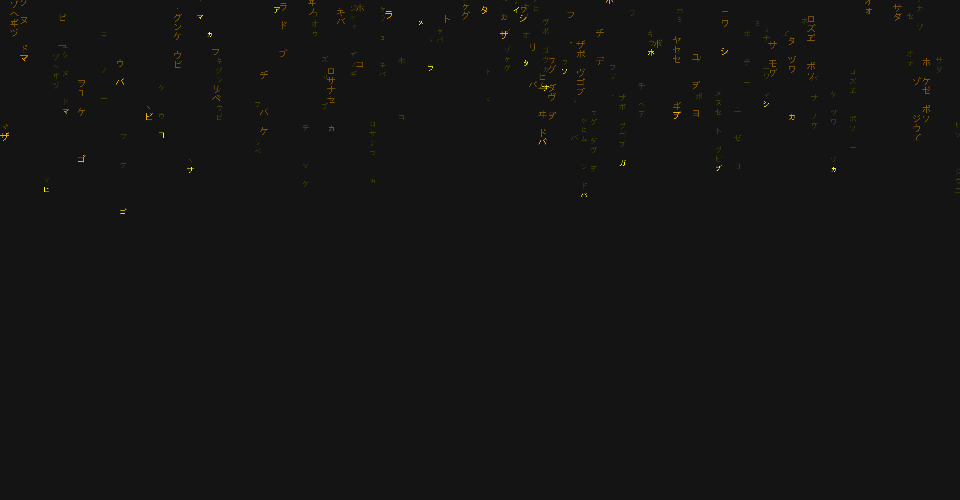
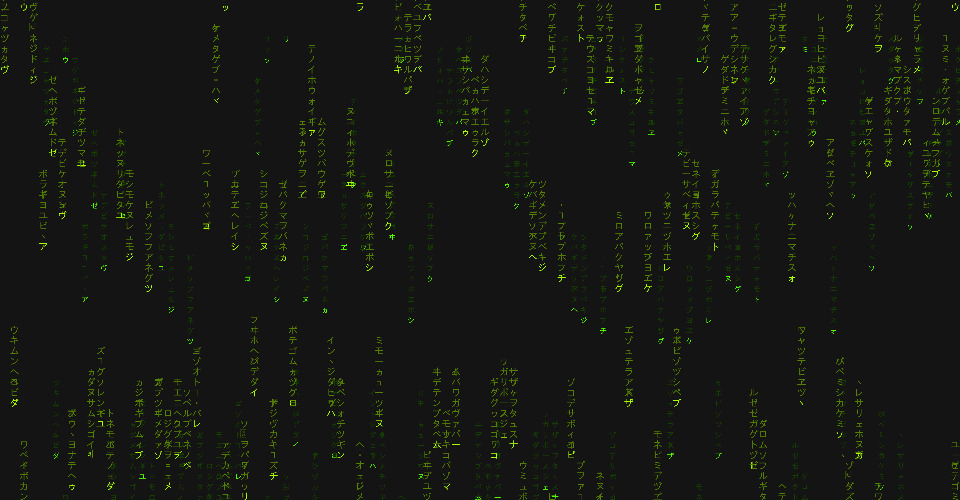
Final Commit

diff --git a/draw_one_frame.js b/draw_one_frame.js
@@ -1,55 +1,63 @@
 let charSize = 0 //20; // set char size
 let streams = []; // create array for the streams
-let firstRun  = true;
-let hue = 0;
-let hueChange = true;
+let firstRun  = true; // checks to see if first run
+let hue = 0; // hue value for text colour
+let hueChange = true; // set hueChange to true
 
-
+//-------DRAW_ONE_FRAME-------//
 function draw_one_frame() {
-if(firstRun){
-  charSize = width / 100
-  background (0) // set background colour
-  let x = 0;
-  for (let i = 0; i <= width / charSize; i++) {
-    let stream = new Stream();
-    stream.generateChars(x, random(-1000, 0)); // generate the symbols at a random y value
-    streams.push(stream);
-    x += charSize; 
+  if(firstRun){
+    charSize = width / 100 // set text size to scale with screen size
+    textSize(charSize); // apply text size
+
+    let x = 0;
+
+    // loop for generating streams == to the width of the screen
+    for (let i = 0; i <= width / charSize; i++) {
+      let stream = new Stream();
+      stream.generateChars(x, random(-1000, 0)); // generate the symbols at a random y value
+      streams.push(stream);
+      x += charSize; 
+    }
+
+    firstRun = false; // set firstRun to false, so above only runs the first time
   }
-  textSize(charSize);
-firstRun = false;
-}
-  background(20);
+
+  background(20); // set background colour
+
+  // render each stream
   streams.forEach(function(stream) {
-    stream.render();
-    stream.render2();
+    stream.render(); // main stream
+    stream.render2(); // background stream
   });
 
+  // hue text colour logic
   if (hue == 0){
-    hueChange = true
+    hueChange = true // when hue == 0, set to true
   } else if (hue == 100) {
-    hueChange = false
+    hueChange = false // when hue == 100, set to false
   }
 
   if (hueChange == true) {
-    hue = hue + 5;
+    hue = hue + 5; // if hueChange == true, keep adding 5 to the value of hue
   }
   else if (hueChange == false) {
-    hue = hue - 5;
+    hue = hue - 5; // if hueChange == false, keep subtracting 5 from the value of hue
   }
-
 }
 
+//-------Char-------//
 function Char(x, y, speed, first) {
-  this.x = x; // x pos
-  this.y = y; // y pos
-  this.value; // stores which symbol is displayed
+  this.x = x; // character x pos
+  this.y = y; // character y pos
+  this.value; // stores which character is displayed
 
-  this.speed = speed; // how fast the symbol moves
-  this.first = first; // changes the first symbol in each stream
+  this.speed = speed; // how fast the character moves
+  this.first = first; // handles the first character in each stream
 
-  this.swtichInterval = round(random(2, 20));
+  this.swtichInterval = round(random(2, 20)); // how fast the character changes
   
+  // handles changing the character
   this.setToRandomChar = function() {
     if (frameCount % this.swtichInterval == 0) { // whenever switchInterval divides evenly into frameCount, then run code
       this.value = String.fromCharCode(
@@ -58,6 +66,7 @@ function Char(x, y, speed, first) {
     }
   }
   
+  // handles the raining animation
   this.rain = function() {
     if (this.y >= height){ // checks to see if the symbol has reached the bottom, in which case it will reset back to the top
       this.y = 0;
@@ -67,54 +76,61 @@ function Char(x, y, speed, first) {
   }
 }
 
+//-------Stream-------//
 function Stream(){
-  this.chars = [];
-  this.totalChars = 8//round(random(5, 35)); // select total number of symbols for each row
-  this.speed = 25//random(30, 50); // select random speed for symbols
+  this.chars = []; // array for characters
+  this.totalChars = 8 // set total number of characters for each row
+  this.speed = 25 // set falling speed for characters
 
+  // handles generating characters
   this.generateChars = function(x, y) {
     let first = 1 == 1; // check if number is == to 1, if so set to true otherwise set to false
     for (let i =0; i <= this.totalChars; i++) {
       char = new Char(x, y, this.speed, first);
-      char.setToRandomChar();
+      char.setToRandomChar(); // set to new random character
       this.chars.push(char);
-      y -= charSize;
+      y -= charSize; // move each character above previous 
       first = false; // change variable to false after first loop
     }
   }
 
+  // render information for main stream
   this.render = function() {
-    
     this.chars.forEach(function(char) {
-      colorMode(HSB)
-      if (char.first) {
-        fill(hue, 255, 255);
-      } else {
-        fill(hue, 255, 50); // symbol colour, green
-      }
-      textSize(charSize)
-      text(char.value, char.x, char.y); // display the symbol as text
-      char.rain(); // call the rain function
-      char.setToRandomChar();
-    });
+      colorMode(HSB) // set colour mode to HSB
 
+      if (char.first) {
+        fill(hue, 255, 255); // set first character to different colour (brighter)
+      } else {
+        fill(hue, 255, 50); // set all other character colours
+      }
+
+      textSize(charSize) // set text size
+      text(char.value, char.x, char.y); // display the symbol as text
+
+      char.rain(); // call the rain function
+      char.setToRandomChar(); // call random character function
+    });
   }
 
+  // render information for background stream
   this.render2 = function() {
     
     this.chars.forEach(function(char) {
-      colorMode(HSB)
+      colorMode(HSB) // set colour mode to HSB
+
       if (char.first) {
-        fill(hue+20, 255, 100);
+        fill(hue+20, 255, 100); // set first character to different colour (brighter)
       } else {
-        fill(hue+20, 255, 25); // symbol colour, green
+        fill(hue+20, 255, 25); // set all other character colours
       }
-      textSize(charSize - 5)
+
+      textSize(charSize - 5) // set text size, but slightly smaller
       text(char.value, char.x + 100, char.y + 100); // display the symbol as text
+
       char.rain(); // call the rain function
-      char.setToRandomChar();
+      char.setToRandomChar(); // call random character function
     });
-
   }
-
+  
 }

diff --git a/README.md b/README.md
@@ -1,4 +1,23 @@
 [![Open in Visual Studio Code](https://classroom.github.com/assets/open-in-vscode-c66648af7eb3fe8bc4f294546bfd86ef473780cde1dea487d3c4ff354943c9ae.svg)](https://classroom.github.com/online_ide?assignment_repo_id=10300689&assignment_repo_type=AssignmentRepo)
 ### 2023 MDDN342 Project 1: Parameterised Space
 
-Added a background stream into the code, with a lower brightness and smaller font size. Also made the font size / by the width, so that it stays the same no matter what size the canvas is. Next I'll mess around with making the background colour chnage slightly with the hue of the text, so we'll see how that goes!
+MDDN342 - Project 1 - MATRIX RAINING TEXT ZOOM BACKGROUND
+
+INTRODUCTION
+For Project 1 of Creative Coding 3, I decided to recreate the "Matrix Raining Text" animation effect using a p5.js sketch, with the intent to produce an animated Zoom background that seamlessly loops every 1 second. I have parameterised it to work at any scale, with options to easily change the colours, speed, and amount of characters per stream, along with a plethora of other additions. 
+
+
+GOALS
+My goals for this project were simple: create a parameterised looping 1 second animation in the style of The Matrix that I can use as a Zoom background, with a options to customise the design (as outlined above).
+
+
+PROCESS
+Starting out, I knew what effect I wanted to achieve, however I didn't know exactly where to start. This is where some internet searching helped. Orginally, I asked ChatGPT for some guidance on how I would go about creating an animation like this, and it provided me with some code that got me on (somewhat) of the right track. The code was completely broken however, so I stashed that work and started again. Next I stumbled across a fantastic video by The Coding Train (https://youtu.be/S1TQCi9axzg), which helped me to get a great head start on how to lay out my code. 
+
+Of course, the framework we were working within for the project ment I couldn't simply copy all my work over from the video, and I spent a fair amount of time trying to get the animation running within the framework. Eventually, with some help from Phoebe, I got it working and was able to start refining it down.
+
+The key areas I focused on were making it actually loop, adjust how the text size was set (as it wasn't scaling correctly), adding options for changing colours, and more. After a number of iterations (see the Progress Document), I ended up with a design I am rather pleased with. 
+
+
+FINAL THOUGHTS
+Overall I enjoyed the simple nature of my design in this project. While at times the design was quite limiting, it was a fun challange to get it all working within the framework and I find the final output to be very satisfying to look at for extended periods of time. 
